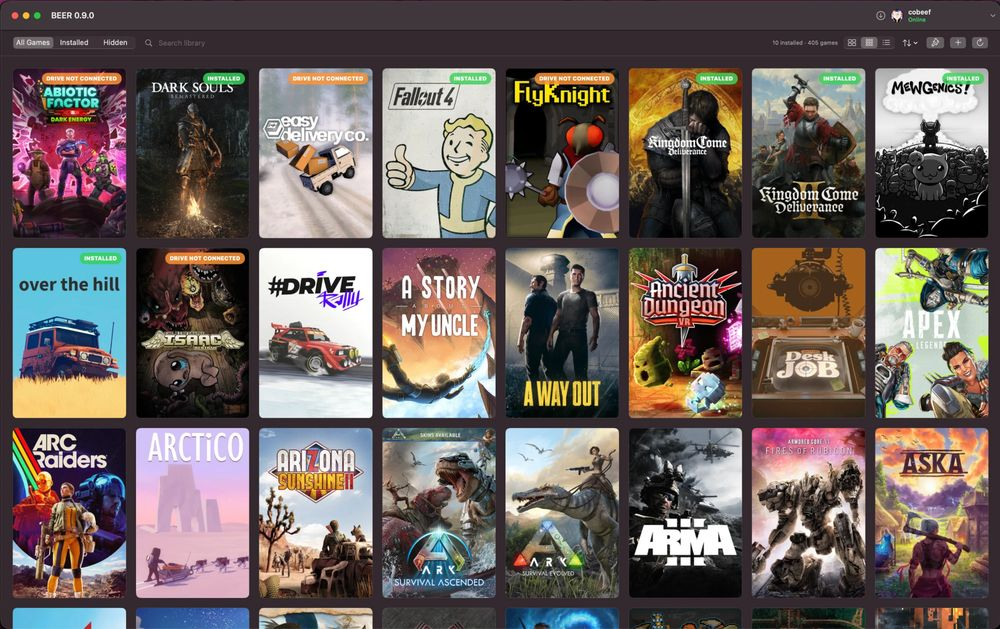
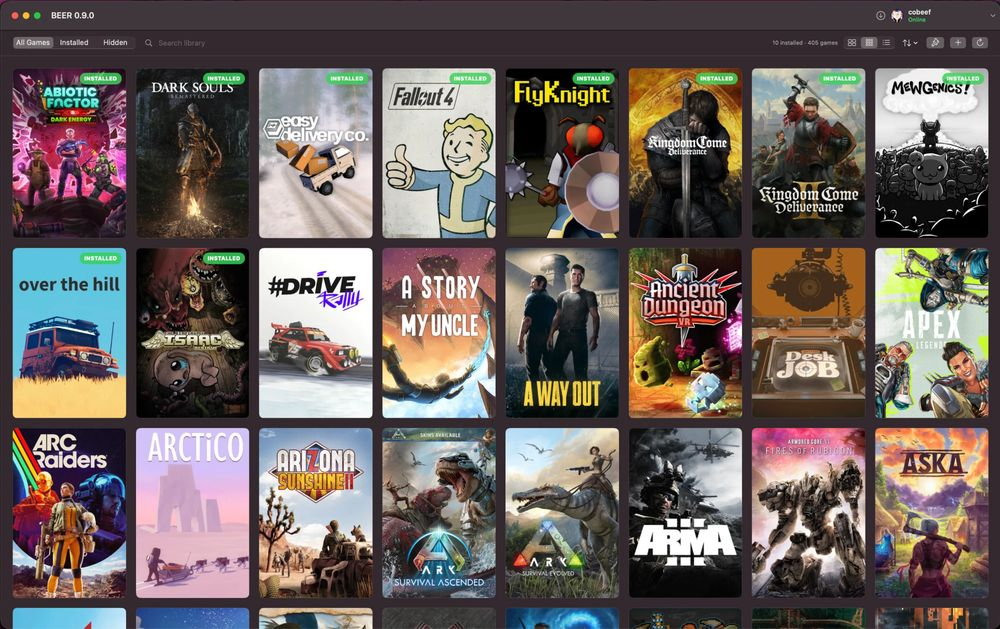
Use retaken library screenshot with all games installed

diff --git a/index.html b/index.html
@@ -70,7 +70,7 @@
           </div>
         </div>
         <a class="hero-shot" href="beer.html">
-          <img src="assets/beer-library.jpg" srcset="assets/beer-library-1000.jpg 1000w, assets/beer-library.jpg 1600w" sizes="(min-width: 1000px) 640px, 100vw" alt="BEER 0.9.0, a Mac app I built, showing a Steam library of 405 games as a grid of cover art with Installed badges" width="1600" height="1006" fetchpriority="high">
+          <img src="assets/beer-library.jpg?v=2" srcset="assets/beer-library-1000.jpg?v=2 1000w, assets/beer-library.jpg?v=2 1600w" sizes="(min-width: 1000px) 640px, 100vw" alt="BEER 0.9.0, a Mac app I built, showing a Steam library of 405 games as a grid of cover art with Installed badges" width="1600" height="1006" fetchpriority="high">
           <span class="hero-caption">BEER, my open-source Mac app
             <svg viewBox="0 0 24 24" fill="none" stroke="currentColor" stroke-width="2" stroke-linecap="round" stroke-linejoin="round" aria-hidden="true"><path d="M5 12h14M13 6l6 6-6 6"/></svg>
           </span>
